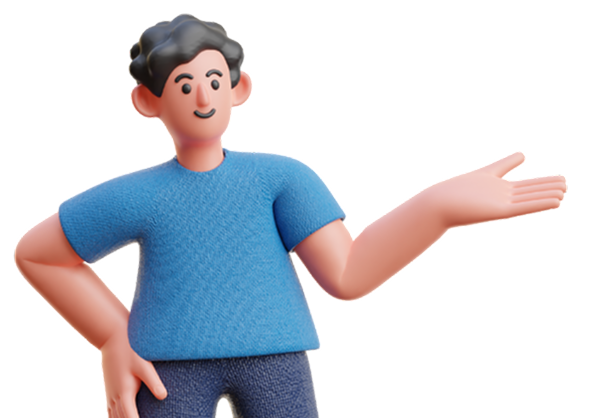
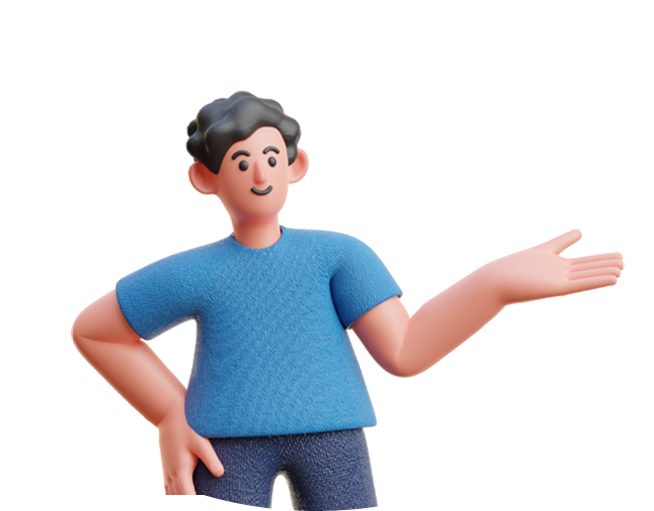
fix recent transaction

diff --git a/src/components/RecentTransactions.jsx b/src/components/RecentTransactions.jsx
@@ -1,11 +1,59 @@
 "use client"
 
-import { Card, Button, Typography } from "antd"
+import { useState } from "react"
+import { Card, Button, Typography, Modal } from "antd"
 import person3 from "@assets/person3.png"
 
 const { Title, Paragraph } = Typography
 
-const RecentTransactions = ({ transactions }) => {
+const RecentTransactions = ({ transactions, onSuccessBuy }) => {
+  const [selectedTransaction, setSelectedTransaction] = useState(null)
+  const [isModalVisible, setIsModalVisible] = useState(false)
+
+  const showConfirmModal = (transaction) => {
+    setSelectedTransaction(transaction)
+    setIsModalVisible(true)
+  }
+
+  const handleBuyAgain = async () => {
+    if (!selectedTransaction) return
+
+    try {
+      const userId = localStorage.getItem("user")
+      const email = localStorage.getItem("userEmail")
+
+      const response = await fetch("https://whispering-pollen-wolf.glitch.me/transactions", {
+        method: "POST",
+        headers: { "Content-Type": "application/json" },
+        body: JSON.stringify({
+          userId,
+          email,
+          packageId: selectedTransaction.packageId,
+          price: selectedTransaction.price,
+          date: new Date().toISOString().split("T")[0],
+        }),
+      })
+
+      if (response.ok) {
+        Modal.success({
+          title: "Berhasil!",
+          content: "Transaksi berhasil diulang.",
+        })
+        onSuccessBuy && onSuccessBuy()
+      } else {
+        throw new Error()
+      }
+    // eslint-disable-next-line no-unused-vars
+    } catch (err) {
+      Modal.error({
+        title: "Gagal",
+        content: "Terjadi kesalahan saat memproses transaksi.",
+      })
+    } finally {
+      setIsModalVisible(false)
+    }
+  }
+
   return (
     <div className="bg-[#27548A] py-16 px-4 md:px-20 text-white font-poppins relative min-h-[420px]">
       <div className="max-w-7xl mx-auto flex flex-col md:flex-row items-center gap-10">
@@ -14,7 +62,7 @@ const RecentTransactions = ({ transactions }) => {
           <img
             src={person3}
             alt="Character"
-            className="hidden md:block absolute top-[-120px] left-0 w-[400px] sm:w-[550px] md:w-[700px] h-auto object-contain"
+            className="hidden md:block absolute top-[-190px] left-0 w-[400px] sm:w-[550px] md:w-[700px] h-auto object-contain"
           />
         </div>
 
@@ -46,6 +94,7 @@ const RecentTransactions = ({ transactions }) => {
                     type="primary"
                     block
                     className="bg-[#27548A] rounded-md font-poppins"
+                    onClick={() => showConfirmModal(item)}
                   >
                     Beli lagi
                   </Button>
@@ -55,6 +104,22 @@ const RecentTransactions = ({ transactions }) => {
           </div>
         </div>
       </div>
+
+      {/* Modal Konfirmasi */}
+      <Modal
+        open={isModalVisible}
+        title="Konfirmasi Pembelian Ulang"
+        onOk={handleBuyAgain}
+        onCancel={() => setIsModalVisible(false)}
+        okText="Ya, Beli"
+        cancelText="Batal"
+      >
+        {selectedTransaction && (
+          <p>
+            Apakah kamu yakin ingin membeli ulang paket <strong>{selectedTransaction.name}</strong>?
+          </p>
+        )}
+      </Modal>
     </div>
   )
 }

diff --git a/src/main.jsx b/src/main.jsx
@@ -2,7 +2,7 @@ import React from "react"
 import ReactDOM from "react-dom/client"
 import App from "./App"
 import "./index.css"
-
+import "antd/dist/reset.css";
 ReactDOM.createRoot(document.getElementById("root")).render(
   <React.StrictMode>
     <App />

diff --git a/src/App.jsx b/src/App.jsx
@@ -3,7 +3,7 @@ import Login from "./pages/Login"
 import Dashboard from "./pages/Dashboard"
 import Akun from "./pages/Akun"
 import SignUp from "./pages/SignUp"
-
+import "antd/dist/reset.css";
 function App() {
   return (
     <BrowserRouter>
